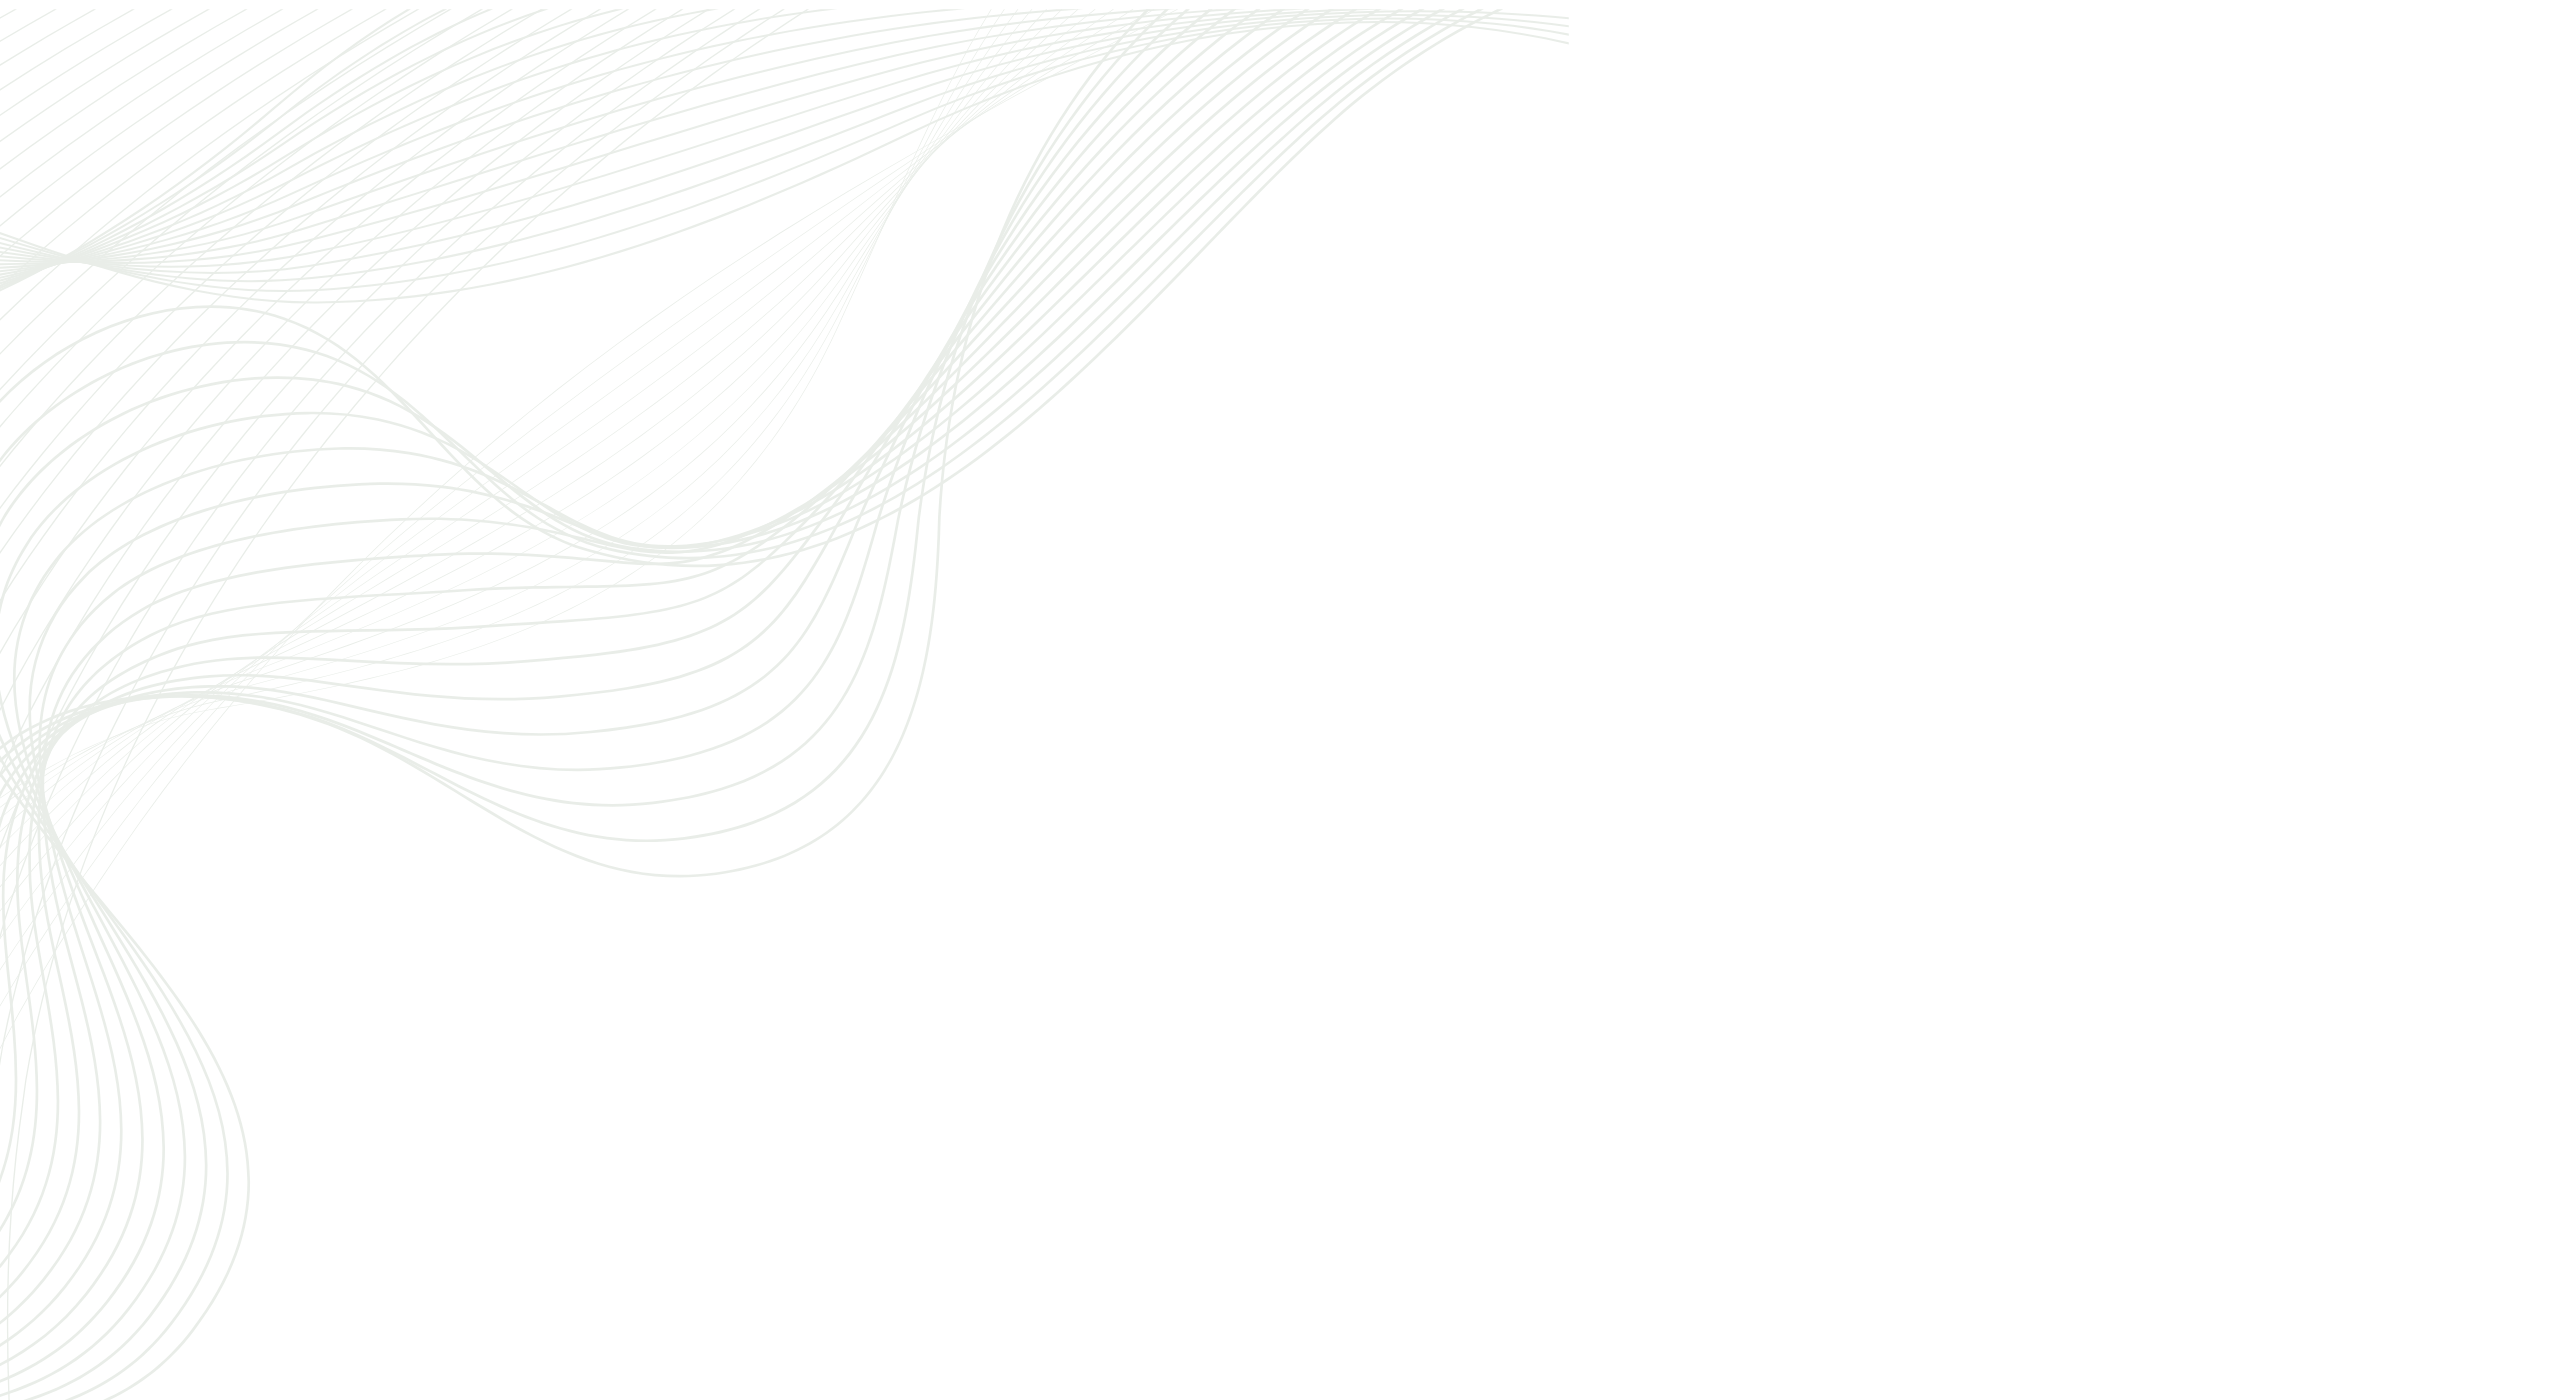
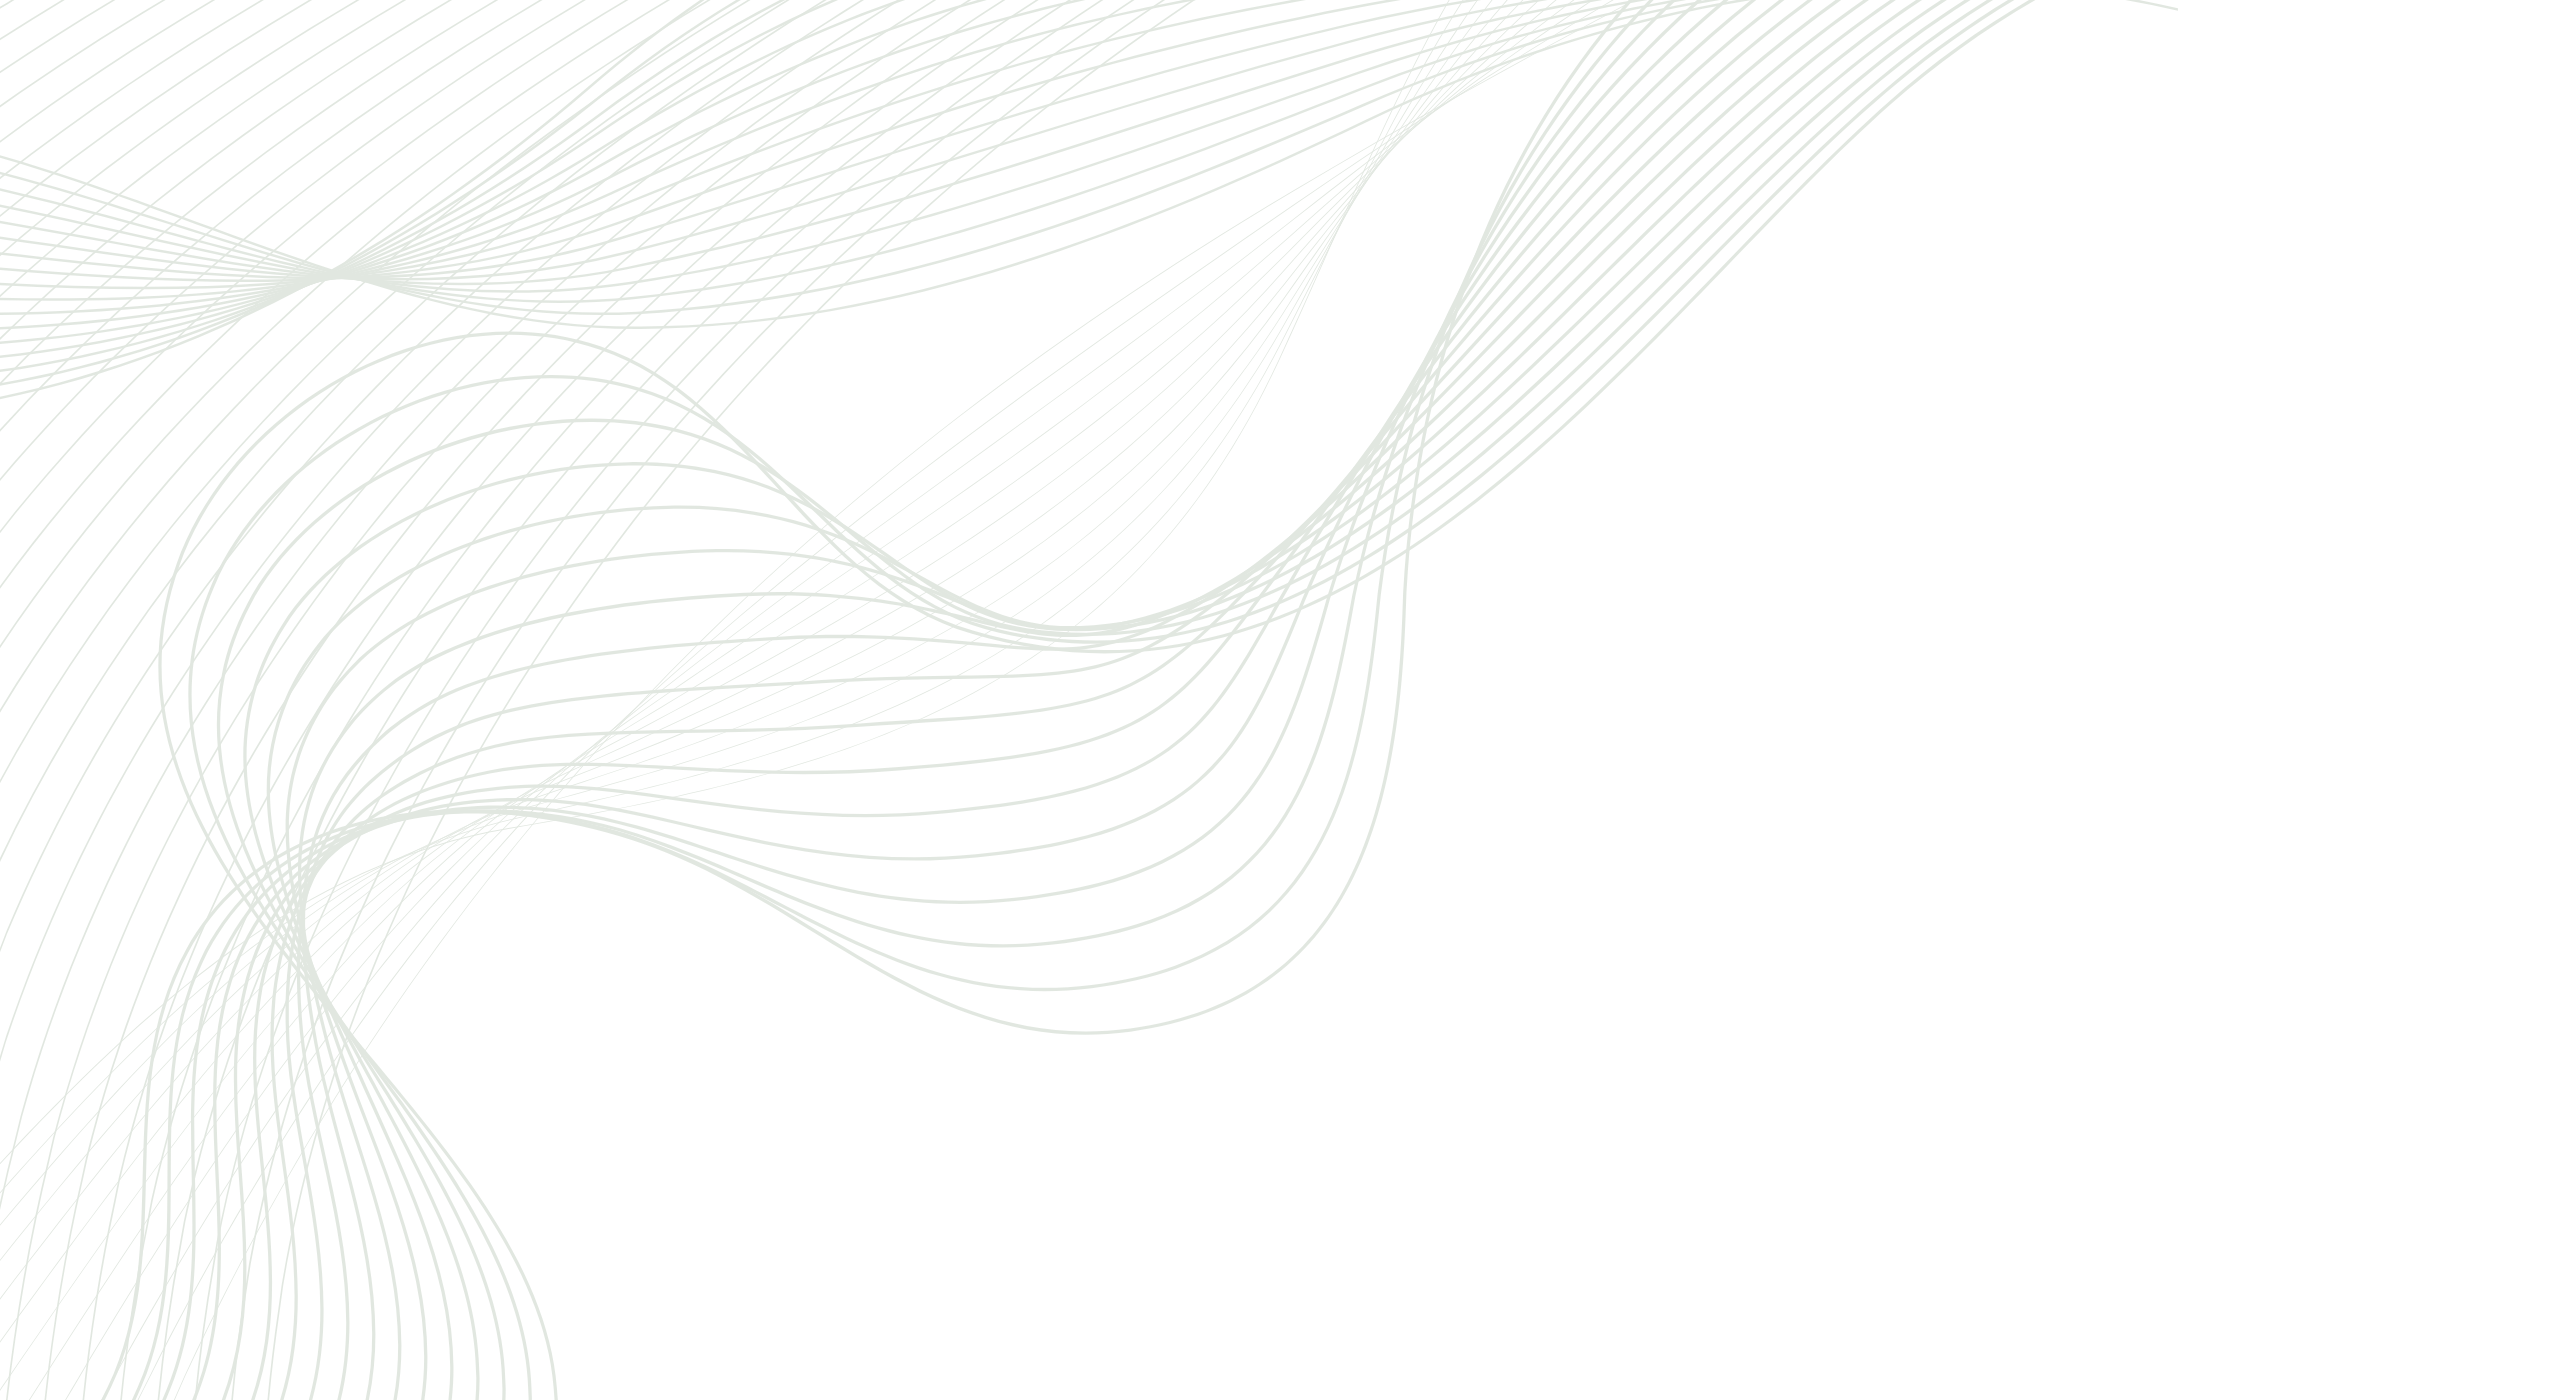
1.1.5

diff --git a/index.css b/index.css
@@ -15,7 +15,7 @@ a:hover {
 
 body {
     margin: 0;
-    background-image: url('./imgs/background\ full.png');
+    background-image: url('./imgs/background\ full\ .png    ');
     background-repeat: no-repeat;
     background-size: cover;
 }
@@ -255,7 +255,7 @@ h2 {
     height: auto;
     flex-direction: row;
     background-size: 100%;
-
+    
 
 }
 
@@ -269,11 +269,11 @@ h2 {
     display: flex;
     padding-right: 10px;
     padding-left: 10px;
-    background-color: rgba(138, 148, 138, 0.479);
+    background-color: rgba(138, 148, 138, 0.083);
 
     padding-right: 80px;
     padding-left: 80px;
-    background-image: url('./imgs/backgroundWork.png');
+    background-image: url('./imgs/backgroundWorkMobile.png');
     background-size: 100%;
     background-repeat: no-repeat;
 
@@ -289,13 +289,13 @@ h2 {
     height: auto;
     flex-direction: row-reverse;
     display: flex;
-    background-color: #b8d5b832;
+    background-color: #b8d5b815;
     justify-content:center;
 
     padding-right: 80px;
     padding-left: 80px;
     border-bottom: none;
-    background-image: url('./imgs/backgroundWork2.png');
+    background-image: url('./imgs/backgroundWorkMobile2.png');
     background-size: 100%;
     background-repeat: no-repeat;
 
@@ -314,6 +314,7 @@ h2 {
     margin: auto;
     border: solid rgb(26, 72, 19) 1px;
     background-image: url('./imgs/squareBackground.png');
+    
     background-size: contain;
 
 }
@@ -375,21 +376,27 @@ display: flex;
     padding-left: 70px;
     background-color: #b8d5b832;
 
+    background-repeat: no-repeat;
 }
 .galery{
     text-align: justify;
     color: rgb(26, 72, 19);
-    flex-direction: column;
+    flex-direction: column; 
+    background-image: url('./imgs/backgroundWorkMobile.png');
+
     
 
 }
 .galery1{
+        background-image: url('./imgs/backgroundWork.png');
 }
 .galery p{
     margin-top: 40px;
 
 }
 .artGalery{
+
+    background-image: url('./imgs/backgroundWorkMobile.png');
 
 }
 .galeryMain h2{
@@ -423,9 +430,9 @@ display: flex;
 }
 .about {
     background-repeat: no-repeat;
-    background-color: rgba(138, 148, 138, 0.479);
+    background-color: rgba(138, 148, 138, 0.13);
 
-    background-image: url('./imgs/backgroundWork2.png');
+    background-image: url('./imgs/backgroundWorkMobile2.png');
 
     background-size: cover;
     height: auto;
@@ -461,6 +468,13 @@ display: flex;
     padding-top: 17%;
     align-items: center;
     flex-direction: column;
+}
+.feedbackMain{
+    background-image: url('./imgs/backgroundWorkMobile.png');
+    background-size: cover;
+    background-repeat: no-repeat;
+    background-color: #b8d5b832;
+
 }
 
 .contact {
@@ -602,6 +616,8 @@ input:focus {
     width: 100%;
     height: auto;
     background-color: #b8d5b832;
+    background-repeat: no-repeat;
+    background-size: contain;
 
 }
 
@@ -644,8 +660,12 @@ input:focus {
     .feedbackMain{
         padding-right: 0px;
         padding-left: 0px;
+        
     }
-
+    .feedback{
+        background-image: url('./imgs/backgroundWorkCel2.png');
+        background-size: cover;
+    }
     #tattobuttonPC{
         display: none;
     }
@@ -764,26 +784,29 @@ input:focus {
         display: none;
         width: 0;
     }
+    .galery{
+        background-image: url('./imgs/backgroundWorkCel.png');
 
+    }
 
     .work {
         width: 100%;
         height: auto;
-        background-color: antiquewhite;
+        background-color: #b8d5b815;
         flex-direction: column;
         margin: auto;
     }
 
     .tattoos {
         height: auto;
-        background-color: rgba(138, 148, 138, 0.698);
-
+        background-color: #b8d5b815;
 
         flex-direction: column;
         display: flex;
         background-size: 100%;
         background-repeat: no-repeat;
-        background-image: url('./imgs/backgroundWorkMobile.png');
+        background-image: url('./imgs/backgroundWorkCel2.png');
+
 
 
     }
@@ -819,13 +842,12 @@ input:focus {
 
     .art {
         height: auto;
-        background-color: #b8d5b8a3;
 
 
         flex-direction: column;
         display: flex;
         background-size: 100%;
-        background-image: url('./imgs/backgroundWorkMobile2.png');
+        background-image: url('./imgs/backgroundWorkCel.png');
 
     }
 
@@ -857,10 +879,12 @@ input:focus {
         padding-bottom: 5px;
     }
     .about {
-        background-color: aliceblue;
         height: auto;
         display: flex;
         flex-direction: column;
+        background-image: url('./imgs/backgroundWorkCel.png');
+        background-repeat: no-repeat;
+        background-size: contain;
     }
 
     .aboutMain {
@@ -879,6 +903,9 @@ input:focus {
         width: 50%;
         height: 600px;
         align-self: center;
+        margin-left: auto;
+        margin-right: auto;
+    
     }
     
     .aboutText {
@@ -953,6 +980,11 @@ input:focus {
     .feedbackMain{
         padding-right: 0px;
         padding-left: 0px;
+    }
+    .feedback{
+        background-image: url('./imgs/backgroundWorkCel.png');
+        background-size: 140%;
+        background-repeat: no-repeat;
     }
     #tattoButton{
         
@@ -1081,16 +1113,18 @@ input:focus {
 
         width: 100%;
         height: auto;
-        background-color: rgb(215, 250, 221);
         flex-direction: column;
         margin: auto;
         justify-content: center;
+        background-color: #b8d5b815;
+    
+    
+
     }
 
     .tattoos {
         height: auto;
         width: 100%;
-        background-color: rgba(138, 148, 138, 0.698);
 
 
         flex-direction: column;
@@ -1099,15 +1133,18 @@ input:focus {
         padding-left: 00px;
         margin-right: 0px;
         margin-left: 0px;
-        background-size: 0%;
+            background-size: 140%;
+        background-image: url('./imgs/backgroundWorkCel2.png');
+        background-size: contain;
 
     }
 
     .art {
         height: auto;
         width: 100%;
-        background-color: #b8d5b8a3;
-
+    
+        background-image: url('./imgs/backgroundWorkCel.png');
+        background-size: contain;
 
         flex-direction: column;
         display: flex;
@@ -1115,7 +1152,7 @@ input:focus {
         padding-left: 00px;
         margin-right: 0px;
         margin-left: 0px;
-        background-size: 0%;
+        background-size: 140%;
         background-repeat: no-repeat;
     }
 
@@ -1171,18 +1208,25 @@ input:focus {
         align-items: center;
 
     }
+    .galery{
+        background-image: url('./imgs/backgroundWorkCel.png');
+        background-size: contain;
 
+    }
     .galeryMain {
 
         padding-left: 20px;
         padding-right: 20px;
-
+        background-color: #09a20911;
+        
     }
     .galeryMain h2{
         padding-bottom: 5px;
     }
     .about {
-        background-color: aliceblue;
+        background-color: #b8d5b815;
+        background-image: url('./imgs/backgroundWorkCel2.png');
+        background-size: contain;
         height: auto;
         display: flex;
         flex-direction: column;

diff --git a/index.html b/index.html
@@ -92,6 +92,9 @@
     </header>
 
     <main class="main">
+        <div class="break" ></div>
+                    
+    </div>
         <div class="solution">
             <div class="solutionMain">
                 <div class="solutionText">
@@ -107,7 +110,9 @@
                 </div>
             </div>
         </div>
-
+        <div class="break" ></div>
+                    
+                </div>
         <div class="work">
 
             <div class="work-row">
@@ -150,6 +155,9 @@
                     </div>
                     <span> </span>
                 </div>
+                <div class="break" ></div>
+                    
+                </div>
                 <div class="art" id="squareLeft">
                     <div class="workSquare">
                         <div class="swiffy-slider slider-nav-autoplay slider-nav-autopause"
@@ -187,7 +195,9 @@
                         </p>
                     </div>
                 </div>
-
+                <div class="break" ></div>
+                    
+                </div>
                 <div class="tattoos" id="squareLeft">
                     <div class="workSquare">
                         <div class="swiffy-slider slider-nav-autoplay slider-nav-autopause"
@@ -623,7 +633,7 @@
 
 
         </div>
-        <a class="order" href="https://wa.me/55(aqui seu numero com ddd | tudo junto)?text=Adorei%20seu%20artigo" style="position:fixed;width:60px;height:60px;bottom:40px;right:40px;background-color:#25d366;color:#FFF;border-radius:50px;text-align:center;font-size:30px;box-shadow: 1px 1px 2px #888;
+        <a class="order" href="https://wa.me/55(aqui seu numero com ddd | tudo junto)?text=Conver%20seu%20artigo" style="position:fixed;width:60px;height:60px;bottom:40px;right:40px;background-color:#25d366;color:#FFF;border-radius:50px;text-align:center;font-size:30px;box-shadow: 1px 1px 2px #888;
   z-index:1000;" target="_blank">
             <i style="margin-top:16px" class="fa fa-whatsapp"></i>
         </a>
